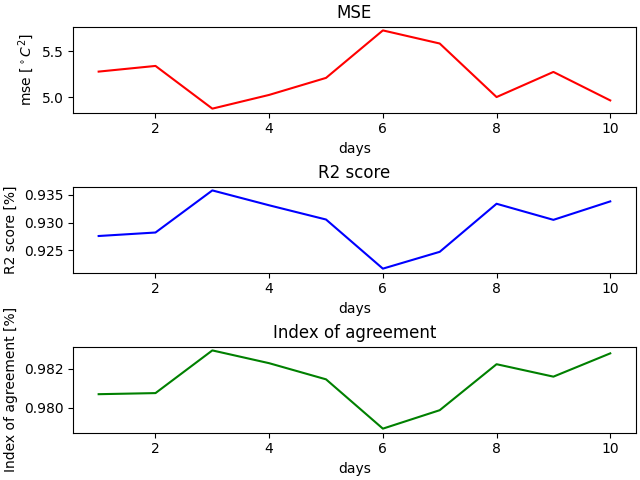
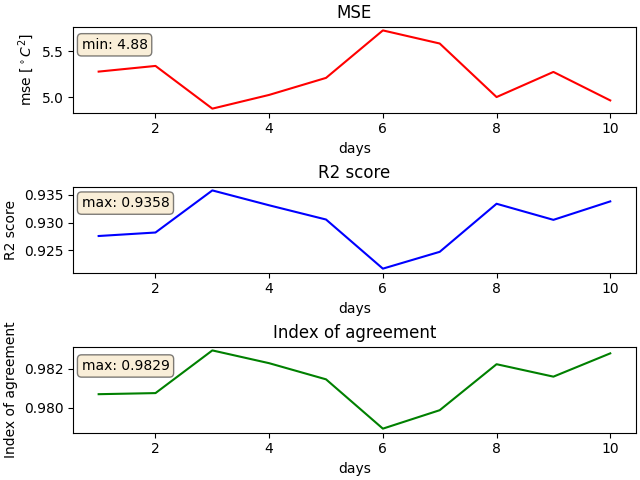
SSN

diff --git a/LR_Tmp.py b/LR_Tmp.py
@@ -1,8 +1,8 @@
-from sklearn.ensemble import RandomForestRegressor
 from sklearn.model_selection import train_test_split
 from sklearn.preprocessing import StandardScaler
+from sklearn.linear_model import LinearRegression
 import numpy as np
-from GetXY import get_xy
+from GetXY import get_xy2
 from sklearn.metrics import mean_squared_error, r2_score
 import matplotlib.pyplot as plt
 import shap
@@ -13,14 +13,11 @@ def main():
     r2score = []
     ia = []
     feature_names = []
-    n = 15
+    n = 25
     for i in range(n):
-        x, y = get_xy(i+1)
+        x, y = get_xy2(i+1)
 
-        feature_names.extend(
-            ["T_max_" + str(n - i), "T_min_" + str(n - i), "T_śr_" + str(n - i), "Suma opadów_" + str(n - i),
-             "Śr. wilgotność_" + str(n - i), "Śr. pr. wiatru_" + str(n - i), "Śr. zachmurzenie_" + str(n - i),
-             "Ciśnienie_" + str(n - i)])
+        feature_names.extend(["T_max_" + str(n - i), "T_min_" + str(n - i), "T_śr_" + str(n - i)])
 
         # Podział na dane uczące i trenujące
         x_train, x_test, y_train, y_test = train_test_split(x, y, test_size=0.2, random_state=0)
@@ -29,9 +26,9 @@ def main():
         x_train = st_x.fit_transform(x_train)
         x_test = st_x.transform(x_test)
 
-        regressor_RFR = RandomForestRegressor(max_depth=100, random_state=0, n_estimators=200)
-        regressor_RFR.fit(x_train, y_train)
-        y_pred_LR = regressor_RFR.predict(x_test)
+        regressor_LR = LinearRegression()
+        regressor_LR.fit(x_train, y_train)
+        y_pred_LR = regressor_LR.predict(x_test)
 
         ia.append(1 - (np.sum((y_test - y_pred_LR) ** 2)) / (
             np.sum((np.abs(y_pred_LR - np.mean(y_test)) + np.abs(y_test - np.mean(y_test))) ** 2)))
@@ -39,30 +36,34 @@ def main():
         r2score.append(r2_score(y_test, y_pred_LR))
 
     fig, axs = plt.subplots(3, 1, constrained_layout=True)
+    props = dict(boxstyle='round', facecolor='wheat', alpha=0.5)
 
     axs[0].plot([i + 1 for i in range(n)], mse, color="red")
     axs[0].set_title('MSE')
     axs[0].set_xlabel('days')
     axs[0].set_ylabel("mse [$^\circ$$C^{2}$]")
+    axs[0].text(0.7, max(mse)-0.2, 'min: ' + str(round(min(mse), 2)), bbox=props)
 
     axs[1].plot([i + 1 for i in range(n)], r2score, color="blue")
     axs[1].set_title('R2 score')
     axs[1].set_xlabel('days')
-    axs[1].set_ylabel('R2 score [%]')
+    axs[1].set_ylabel('R2 score')
+    axs[1].text(0.7, max(r2score) - 0.003, 'max: ' + str(round(max(r2score), 4)), bbox=props)
 
     axs[2].plot([i + 1 for i in range(n)], ia, color="green")
     axs[2].set_title('Index of agreement')
     axs[2].set_xlabel('days')
-    axs[2].set_ylabel('Index of agreement [%]')
+    axs[2].set_ylabel('Index of agreement')
+    axs[2].text(0.7, max(ia) - 0.001, 'max: ' + str(round(max(ia), 4)), bbox=props)
 
-    plt.savefig('./Wykresy/RFR_MSE'+str(n)+'.png', format='png')
+    plt.savefig('./Wykresy/LR_TMP'+str(n)+'.png', format='png')
 
     plt.show()
 
-    explainer = shap.Explainer(regressor_RFR.predict, x_test)
+    explainer = shap.Explainer(regressor_LR.predict, x_test)
     shap_values = explainer(x_test)
     shap.summary_plot(shap_values, show=False, feature_names=feature_names, plot_type="bar")
-    plt.savefig('./Wykresy/RFR_'+str(n)+'days.png', format='png')
+    plt.savefig('./Wykresy/LR_TMP_'+str(n)+'days.png', format='png')
     plt.close()
 
 

diff --git a/LR_MSE.py b/LR_MSE.py
@@ -13,14 +13,14 @@ def main():
     r2score = []
     ia = []
     feature_names = []
-    n = 35
+    n = 200
     for i in range(n):
         x, y = get_xy(i+1)
 
         feature_names.extend(
-            ["T_max_" + str(i + 1), "T_min_" + str(i + 1), "T_śr_" + str(i + 1), "Suma opadów_" + str(i + 1),
-             "Śr. wilgotność_" + str(i + 1), "Śr. pr. wiatru_" + str(i + 1), "Śr. zachmurzenie_" + str(i + 1),
-             "Ciśnienie_" + str(i + 1)])
+            ["T_max_" + str(n - i), "T_min_" + str(n - i), "T_śr_" + str(n - i), "Suma opadów_" + str(n - i),
+             "Śr. wilgotność_" + str(n - i), "Śr. pr. wiatru_" + str(n - i), "Śr. zachmurzenie_" + str(n - i),
+             "Ciśnienie_" + str(n - i)])
 
         # Podział na dane uczące i trenujące
         x_train, x_test, y_train, y_test = train_test_split(x, y, test_size=0.2, random_state=0)
@@ -39,31 +39,35 @@ def main():
         r2score.append(r2_score(y_test, y_pred_LR))
 
     fig, axs = plt.subplots(3, 1, constrained_layout=True)
+    props = dict(boxstyle='round', facecolor='wheat', alpha=0.5)
 
     axs[0].plot([i + 1 for i in range(n)], mse, color="red")
     axs[0].set_title('MSE')
     axs[0].set_xlabel('days')
     axs[0].set_ylabel("mse [$^\circ$$C^{2}$]")
+    axs[0].text(0.7, max(mse) - 0.2, 'min: ' + str(round(min(mse), 2)), bbox=props)
 
     axs[1].plot([i + 1 for i in range(n)], r2score, color="blue")
     axs[1].set_title('R2 score')
     axs[1].set_xlabel('days')
-    axs[1].set_ylabel('R2 score [%]')
+    axs[1].set_ylabel('R2 score')
+    axs[1].text(0.7, max(r2score) - 0.003, 'max: ' + str(round(max(r2score), 4)), bbox=props)
 
     axs[2].plot([i + 1 for i in range(n)], ia, color="green")
     axs[2].set_title('Index of agreement')
     axs[2].set_xlabel('days')
-    axs[2].set_ylabel('Index of agreement [%]')
+    axs[2].set_ylabel('Index of agreement')
+    axs[2].text(0.7, max(ia) - 0.001, 'max: ' + str(round(max(ia), 4)), bbox=props)
 
     plt.savefig('./Wykresy/LR_MSE'+str(n)+'.png', format='png')
 
     plt.show()
 
-    explainer = shap.Explainer(regressor_LR.predict, x_test)
-    shap_values = explainer(x_test)
-    shap.summary_plot(shap_values, show=False, feature_names=feature_names, plot_type="bar")
-    plt.savefig('./Wykresy/LR_'+str(n)+'days.png', format='png')
-    plt.close()
+    # explainer = shap.Explainer(regressor_LR.predict, x_test)
+    # shap_values = explainer(x_test)
+    # shap.summary_plot(shap_values, show=False, feature_names=feature_names, plot_type="bar")
+    # plt.savefig('./Wykresy/LR_'+str(n)+'days.png', format='png')
+    # plt.close()
 
 
 if __name__ == '__main__':

diff --git a/tem_SSN.py b/tem_SSN.py
@@ -14,7 +14,7 @@ def build_model():
     model.add(Dense(150, input_dim=32, activation='sigmoid'))
     model.add(Dense(50, activation='relu'))
     model.add(Dense(1, activation='linear'))
-    model.compile(loss="mean_squared_error", optimizer="rmsprop")
+    model.compile(loss="mean_squared_error", optimizer="adam")
     return model
 
 
@@ -47,10 +47,19 @@ st_x = StandardScaler()
 x_train = st_x.fit_transform(x_train)
 x_test = st_x.transform(x_test)
 
-regressor = KerasRegressor(build_fn=build_model, nb_epoch=200, batch_size=3)
-regressor.fit(x_train, y_train)
+build_model = build_model()
 
-y_pred = regressor.predict(x_test)
+history = build_model.fit(x_train, y_train, epochs=80, verbose=0, validation_split=0.2)
+plt.plot(history.history['loss'], label='loss')
+plt.plot(history.history['val_loss'], label='val_loss')
+plt.ylim([0, 10])
+plt.xlabel('Epoch')
+plt.ylabel('Error [MPG]')
+plt.legend()
+plt.grid(True)
+plt.show()
+
+y_pred = build_model.predict(x_test)
 ia = (1 - (np.sum((y_test - y_pred) ** 2)) / (
     np.sum((np.abs(y_pred - np.mean(y_test)) + np.abs(y_test - np.mean(y_test))) ** 2)))
 print(str(y_pred[0]) + " " + str(y_test[0]))

diff --git a/GetXY.py b/GetXY.py
@@ -17,3 +17,26 @@ def get_xy(n):
         for j in range(n):
             x[i].extend(x_tmp[i+j])
     return x, y
+
+def get_xy2(n):
+    data = pd.read_csv('Dataset.csv')
+    data = data.drop('Dzień', axis=1)
+    data = data.drop('Miesiąc', axis=1)
+    data = data.drop('Rok', axis=1)
+    data = data.drop('Suma dobowa opadów', axis=1)
+    data = data.drop('Średnia wilgotność', axis=1)
+    data = data.drop('Średnia prędkość wiatru', axis=1)
+    data = data.drop('Średnie zachmurzenie', axis=1)
+    data = data.drop('Ciśnienie na stacji', axis=1)
+
+    # Pozyskanie danych
+    x_tmp = data.iloc[:, 1:].values
+    y = data.iloc[n:, 3].values
+
+    x = []
+    for i in range(len(x_tmp) - n):
+        x.append([])
+        for j in range(n):
+            x[i].extend(x_tmp[i+j])
+    return x, y
+
